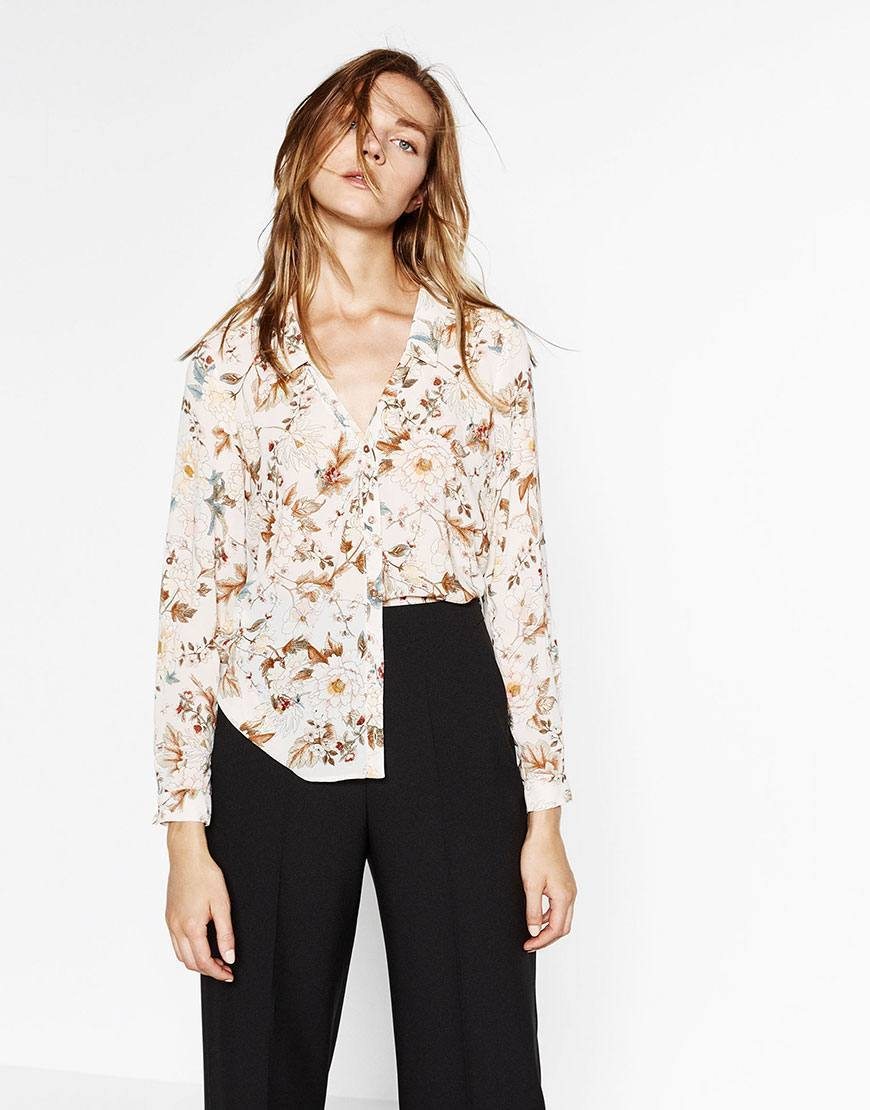
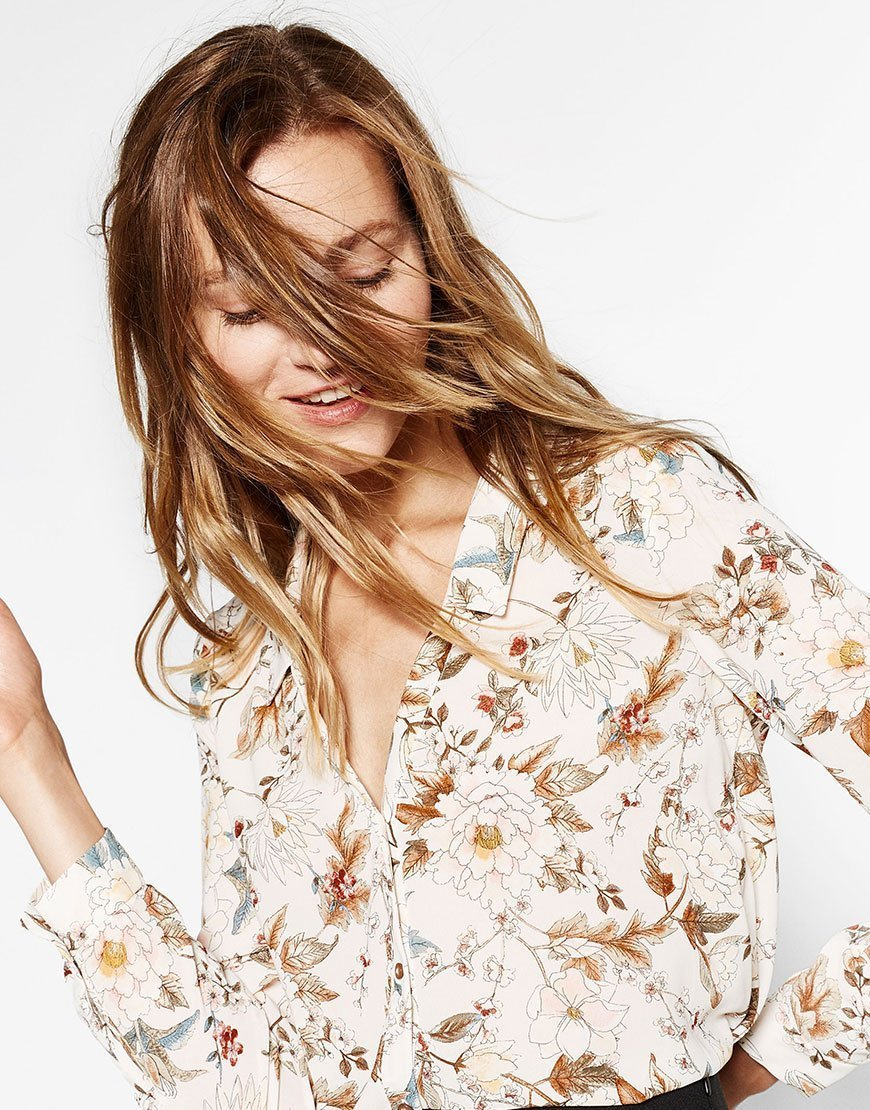
img:hover 처리완료

diff --git a/public/css/index.css b/public/css/index.css
@@ -75,9 +75,10 @@ html, body {font-size: 16px;}
 .sub-slide .wrap {position: relative; display: flex; width: 400%;}
 .sub-slide .slide {position: relative; flex: 25% 0 0;}
 .sub-slide .img-wrap {position: relative; overflow: hidden; border: 1px solid blue; user-select: none; cursor: pointer;}
-.sub-slide .img-case:not(:first-child) {display: none;}
-.sub-slide .img-case img {position: absolute; z-index: 1;}
-.sub-slide .img-case img:first-child {position: absolute; z-index: 2;}
+.sub-slide .img-case {position: relative; display: none;}
+.sub-slide .img-case.active {display: block;}
+.sub-slide .img-case img:last-child {position: absolute; top: 0; left: 0; opacity: 0; transition: opacity 0.5s;}
+.sub-slide .img-wrap:hover img:last-child {opacity: 1;}
 
 .sub-slide .bt {position: absolute; z-index:99; transition: all 0.5s;}
 
@@ -92,8 +93,7 @@ html, body {font-size: 16px;}
 .sub-slide .bt-heart {right: 8px; top: 8px;}
 .sub-slide .bt-sync {right: 8px; top: 48px;}
 .sub-slide .bt-search {right: 8px; top: 88px;}
-.sub-slide .bt > .popper {background-color: #111; color: #f8f8f8; margin-right: 1em; font-size: 0.625em; transform: translateX(-20px); opacity: 0; transition: transform 0.5s, opacity 0.5s; 
-	overflow: hidden; width: 0; padding: 0;}
+.sub-slide .bt > .popper {background-color: #111; color: #f8f8f8; margin-right: 1em; font-size: 0.625em; transform: translateX(-20px); opacity: 0; transition: transform 0.5s, opacity 0.5s; overflow: hidden; width: 0; padding: 0;}
 .sub-slide .bt > .popper > i {color: #111; transform: translateX(6px); font-size: 1.5em;}
 
 .title-wrapper > .cart-wrap i {font-size: 1.125em; color: #333;}

diff --git a/public/html/index.html b/public/html/index.html
@@ -53,20 +53,17 @@
 			<div class="wrap">
 				<div class="slide">
 					<div class="img-wrap">
-						<div class="img-case">
+						<div class="img-case active">
 							<img src="../img/ss-01-blue-01.jpg" class="w-100">
 							<img src="../img/ss-01-blue-02.jpg" class="w-100">
-							<img src="../img/ss-01-blue-01.jpg" class="w-100 stc">
 						</div>
 						<div class="img-case">
 							<img src="../img/ss-01-black-01.jpg" class="w-100">
 							<img src="../img/ss-01-black-02.jpg" class="w-100">
-							<img src="../img/ss-01-black-01.jpg" class="w-100 stc">
 						</div>
 						<div class="img-case">
 							<img src="../img/ss-01-yellow-01.jpg" class="w-100">
 							<img src="../img/ss-01-yellow-02.jpg" class="w-100">
-							<img src="../img/ss-01-yellow-01.jpg" class="w-100 stc">
 						</div>
 						<div class="bt bt-quick">
 							<i class="fa fa-shopping-cart"></i> QUICK SHOP
